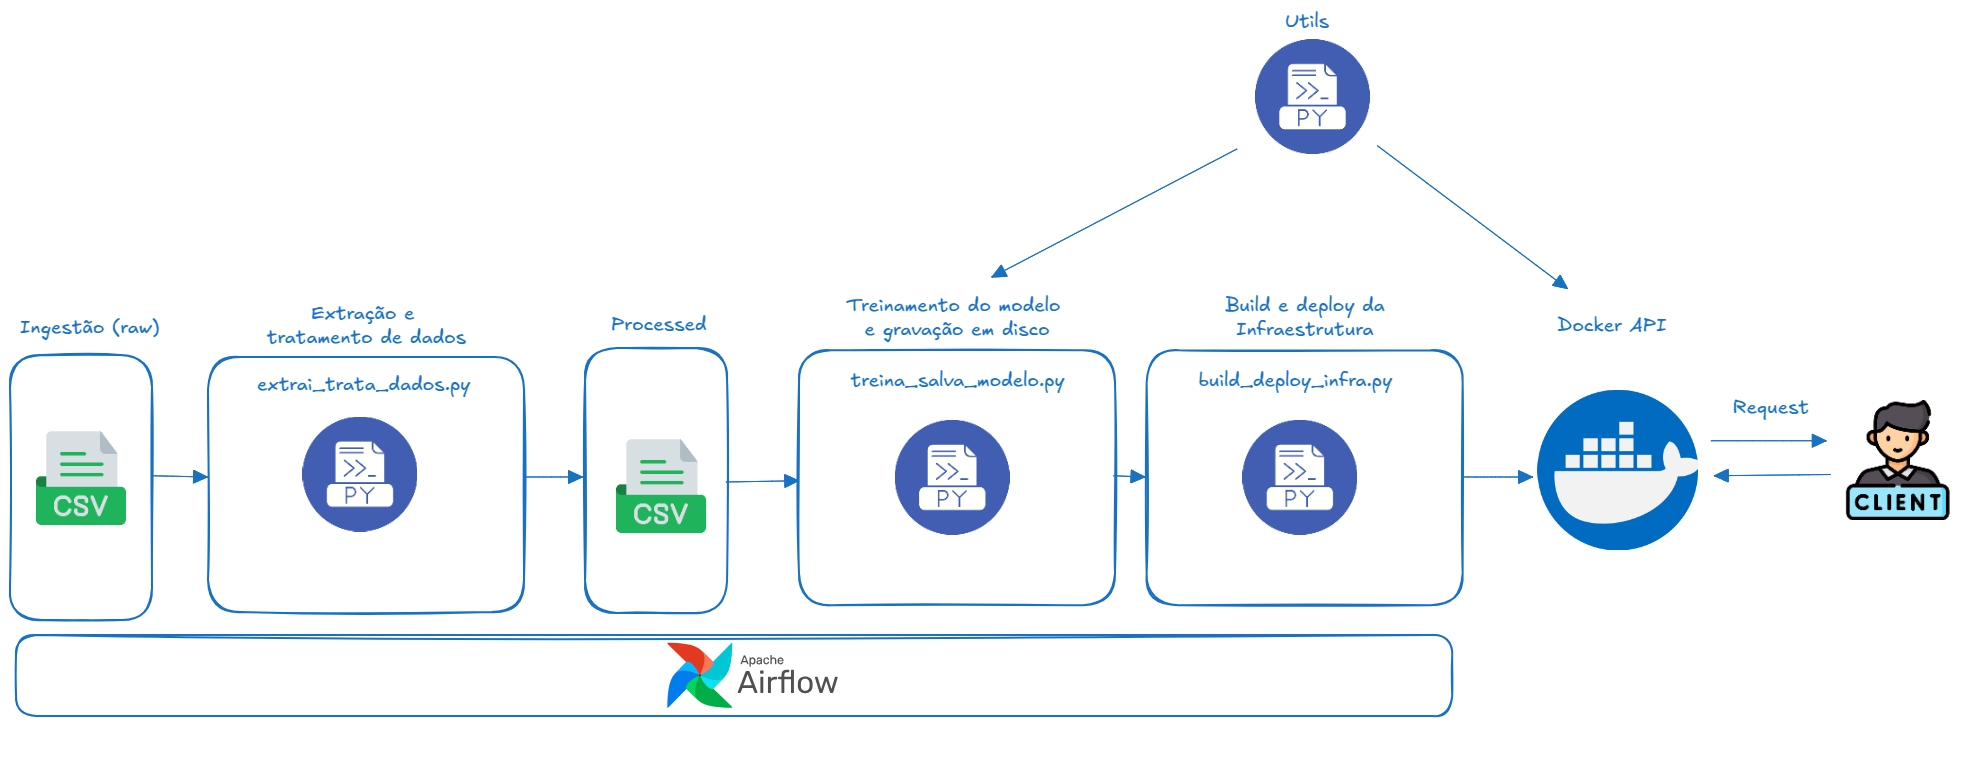
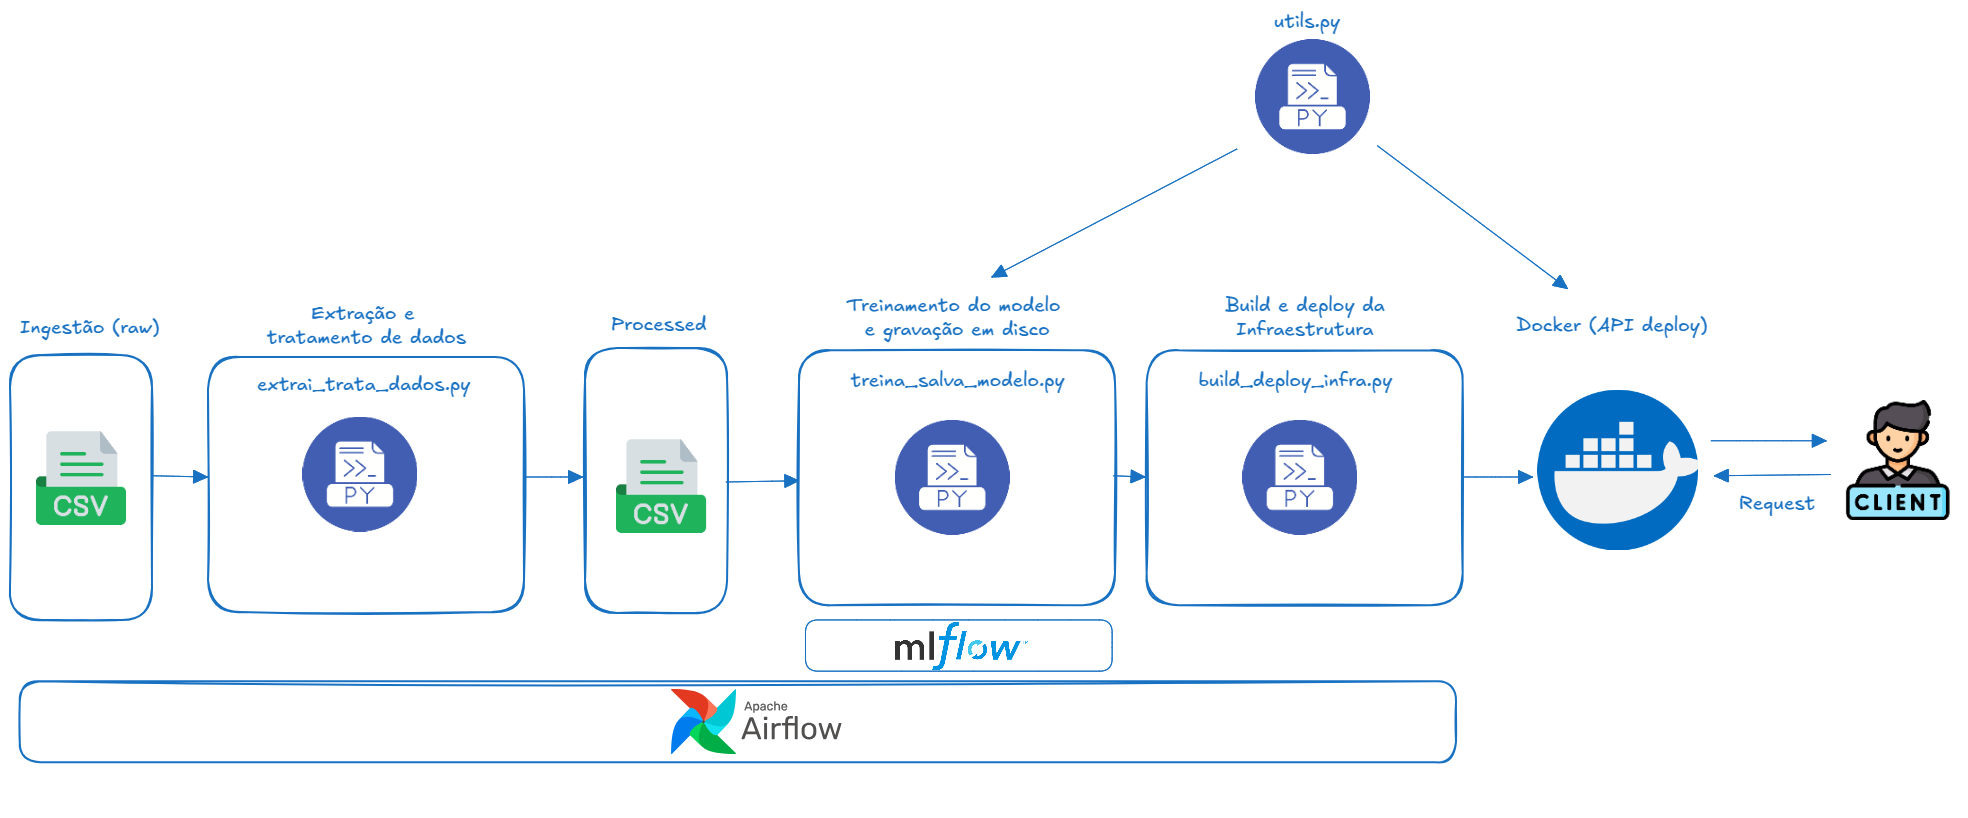
fix docs and readme

diff --git a/README.md b/README.md
@@ -170,6 +170,12 @@ ferramentas para executá-lo. Segue abaixo os passos necessários para ambiente 
 
 ![Logo do Projeto](docs/arquitetura_case_boticario.png)
 
+- Resumo: O dado bruto é extraído e tratado pela dag <i>extrai_trata_dados.py</i> e armazenado na camada processed.<br>
+Em seguida, a dag <i>treina_salva_modelo.py</i> utiliza o dado processado para treinar, checar métricas e<br>
+salvar o modelo,scaler e metadados em disco em /artefatos. E também, as métricas são registradas pelo mlflow.<br>
+E para conculuir, a dag <i>build_deploy_infra.py</i> cria uma imagem e disponibiliza usando os arquivos de<br>
+configuração em /app uma API que retorna um previsão baseada nas características do imóvel.
+
 ### Tecnologias usadas
 
 1. python<br>
